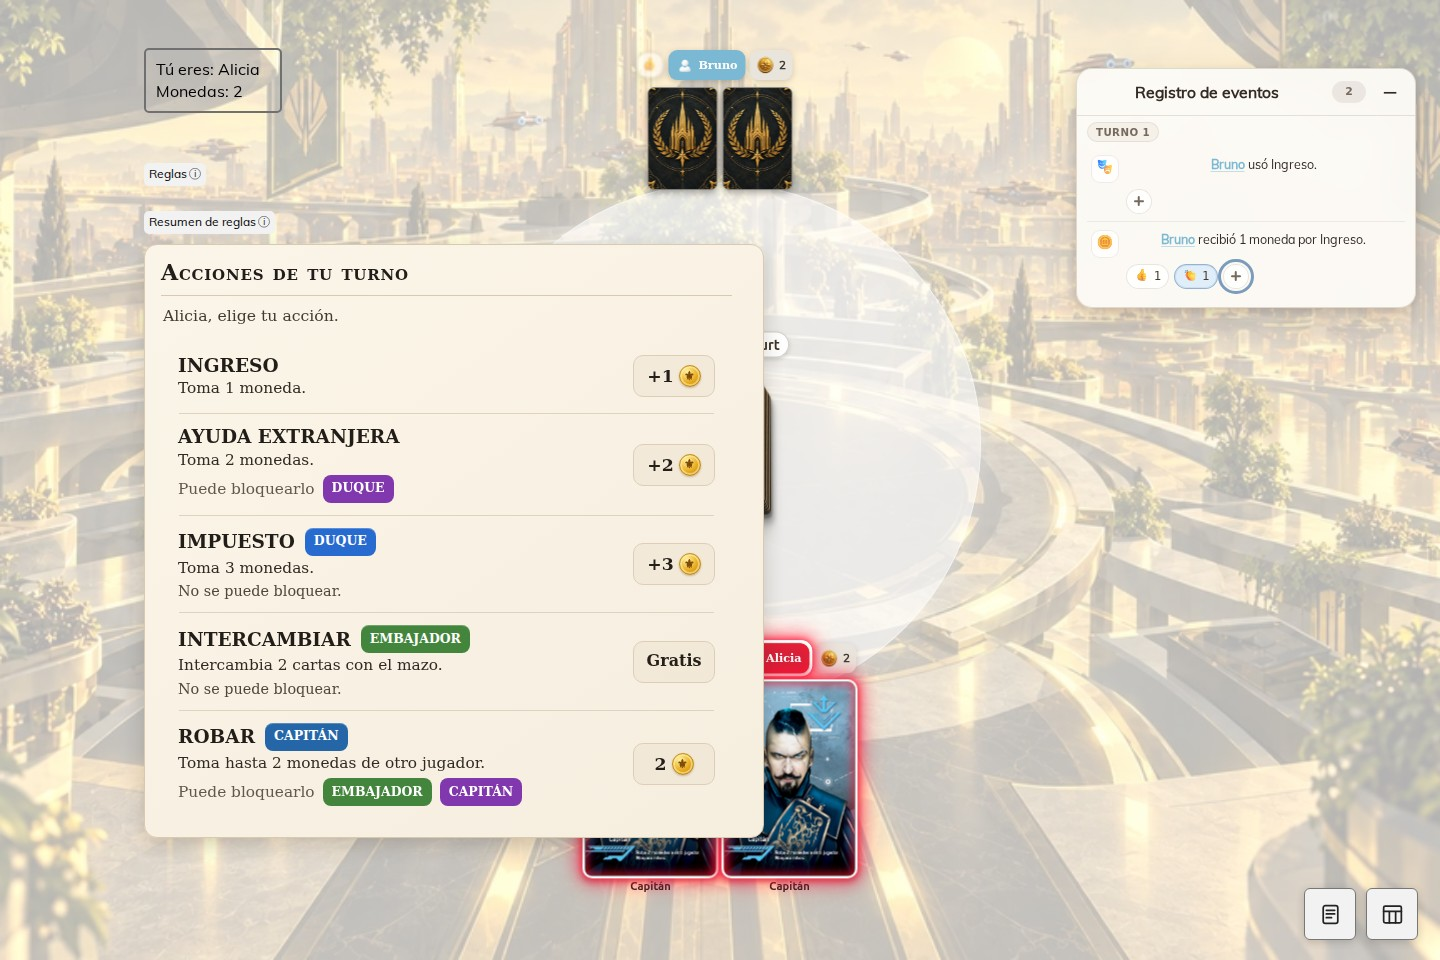
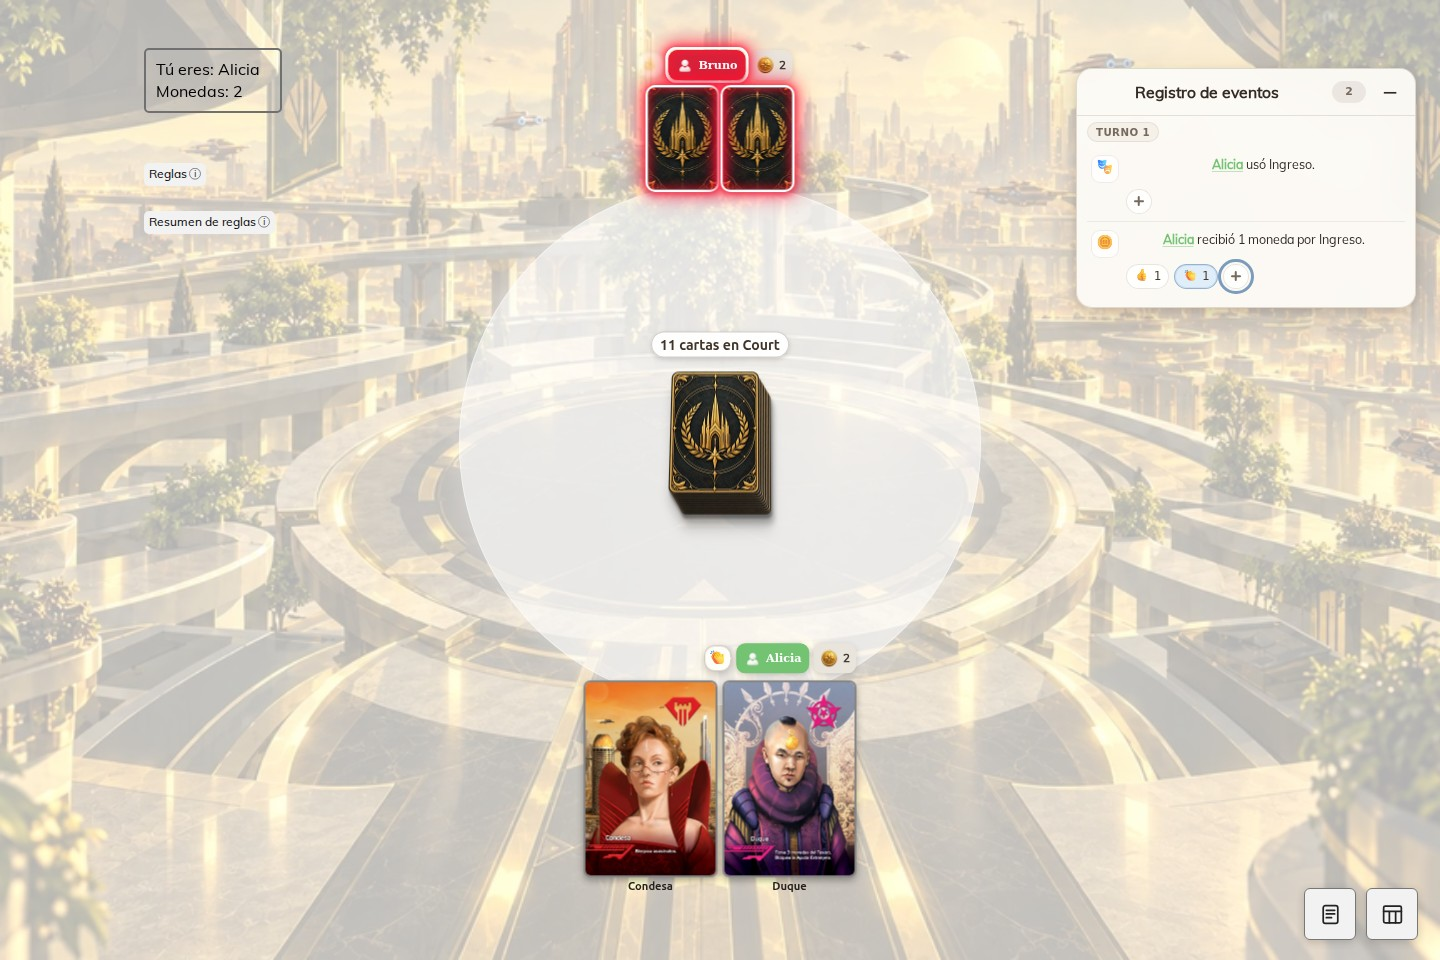
docs(event-reactions): issue 40 sync F4 onto PR 52 base

diff --git a/docs/plans/README_plans.md b/docs/plans/README_plans.md
@@ -33,7 +33,7 @@ GitHub Issues es la fuente de estado de las unidades: la [issue #1](https://gith
 - [#45 — conservar el resaltado de la respuesta elegida durante la espera](https://github.com/pronficilio/coup-online/issues/45): reclamada por `pronficilio`; implementación acotada a `ResponseImageButton.js`; F1 `CLOSED` tras walkthrough del propietario con tres participantes (mouse: opción elegida permanece `active` al apartar el puntero; probó `Pasar` y varios bloqueos; no se afirma cobertura dinámica de teclado/touch). Build cliente pasó con advertencias tras merge de `origin/master@db1d22c` (`918e070`). [PR #51](https://github.com/pronficilio/coup-online/pull/51) abierta; unidad `WAITING_ORCHESTRATOR`. Worktree: `.worktrees/issue-45-persist-submitted-response-highlight`. Plan/reporte: `docs/plans/submitted-response-highlight/`; handoff activo: `docs/plans/active/issue_45_submitted_response_highlight.md`; bitácora: `docs/plans/log/issue-45.jsonl`.
 - [#46 — disolver la partida si se desconecta un jugador activo durante una pausa](https://github.com/pronficilio/coup-online/issues/46): `CLOSED`, `COMPLETED`; F1–F3 `CLOSED (PASS)`, Verifier FINAL `PASS`; `FULL` / `HIGH` / `FINAL`. [PR #48](https://github.com/pronficilio/coup-online/pull/48) integrada a `master` en `2f45d787ded0da2218c6c784f4dd739abdaf4c1b`. Plan: `docs/plans/paused-disconnect/plan_paused_disconnect.md`; cierre: `docs/plans/completed/issue_46_paused_disconnect.md`; reportes F1–F3 y solicitud de Verifier: `docs/plans/paused-disconnect/`; bitácora: `docs/plans/log/issue-46.jsonl`.
 - [#49 — permitir Coup con 7–9 monedas y corregir el ciclo de selección](https://github.com/pronficilio/coup-online/issues/49): PR [#50](https://github.com/pronficilio/coup-online/pull/50) abierta a `master`; F1–F2 `CLOSED`, F3 `BLOCKED` con excepción de integración autorizada por el propietario; `FULL` / `HIGH` / `FINAL`. Plan: `docs/plans/coup-seven-coins/plan_coup_seven_coins.md`; handoff: `docs/plans/active/issue_49_coup_seven_coins.md`; reportes F1–F3: `docs/plans/coup-seven-coins/`; bitácora: `docs/plans/log/issue-49.jsonl`.
-- [#40 — rediseñar el registro de eventos y añadir reacciones efímeras](https://github.com/pronficilio/coup-online/issues/40): `OPEN`, `ACTIVE`; F1/F3 `CLOSED / PASS`; F2 reabierta y cerrada tras el segundo `FAIL` (foco AC9 y scroll AC10); F4 espera la tercera revisión `FINAL`. Build y E2E live con dos clientes pasaron: reemplazo/reset, concurrencia, retiro, expiración, foco restaurado y sin errores de página; fixture móvil confirmó continuidad del scroll. Capturas y matriz 2–6 están en `evidence_issue_40_F4/`. PR e integración aún pendientes de autorización. Branch/worktree `issue/40-event-log-reactions` / `.worktrees/issue-40-event-log-reactions`, sincronizado con `origin/master@ce0e079` (#51). Modo `FULL`, riesgo `HIGH`, verificación `FINAL`. Plan y reportes: `docs/plans/event-log-reactions/`; handoff: `docs/plans/active/issue_40_event_log_reactions.md`; bitácora: `docs/plans/log/issue-40.jsonl`.
+- [#40 — rediseñar el registro de eventos y añadir reacciones efímeras](https://github.com/pronficilio/coup-online/issues/40): `OPEN`, `ACTIVE`; F1/F3 `CLOSED / PASS`; F2 reabierta y cerrada tras el segundo `FAIL` (foco AC9 y scroll AC10); F4 espera la tercera revisión `FINAL`. Build y E2E live con dos clientes pasaron: reemplazo/reset, concurrencia, retiro, expiración, foco restaurado y sin errores de página; fixture móvil confirmó continuidad del scroll. Capturas y matriz 2–6 están en `evidence_issue_40_F4/`. PR e integración aún pendientes de autorización. Branch/worktree `issue/40-event-log-reactions` / `.worktrees/issue-40-event-log-reactions`, sincronizado con `origin/master@2ef09de` (#51–52). Modo `FULL`, riesgo `HIGH`, verificación `FINAL`. Plan y reportes: `docs/plans/event-log-reactions/`; handoff: `docs/plans/active/issue_40_event_log_reactions.md`; bitácora: `docs/plans/log/issue-40.jsonl`.
 
 - [#47 — optimizar y visualizar las opciones de intercambio del Embajador](https://github.com/pronficilio/coup-online/issues/47): `WAITING_ORCHESTRATOR`; F1 y F2 `PASS`; [PR #52](https://github.com/pronficilio/coup-online/pull/52) lista para revisión. Muestra cada carta física una vez, alterna selección B/A y confirma desde el caption; nombres accesibles distinguen copias repetidas. `LIGHT` / `MEDIUM` / `FINAL`. Asignada a `pronficilio`; branch/worktree `issue/47-ambassador-exchange-options` / `.worktrees/issue-47-ambassador-exchange-options`, destino `master`. Plan: `docs/plans/ambassador-exchange-options/plan_ambassador_exchange_options.md`; handoff: `docs/plans/active/issue_47_ambassador_exchange_options.md`; bitácora: `docs/plans/log/issue-47.jsonl`.
 

diff --git a/docs/plans/event-log-reactions/report_issue_40_F4.md b/docs/plans/event-log-reactions/report_issue_40_F4.md
@@ -3,7 +3,7 @@
 **Issue:** #40 — rediseñar el registro de eventos y añadir reacciones efímeras
 **Estado:** `ACTIVE`; dos revisiones independientes devolvieron `FAIL`; los defectos reproducibles se corrigieron y el E2E live pasó. Tercera revisión independiente `FINAL` pendiente. La publicación/integración de la PR de AC12 requiere autorización del propietario.
 **Branch/worktree:** `issue/40-event-log-reactions` / `.worktrees/issue-40-event-log-reactions`
-**Base:** `origin/master@ce0e0797dad13b4b2c4dd4b57f37458f24842a40`
+**Base:** `origin/master@2ef09de84465889521234951fed934a31dfe1b11`
 
 ## Primera revisión independiente
 
@@ -22,7 +22,7 @@ La revisión también encontró aprobados los controles estáticos de cronologí
 - `Coup.js` ahora pasa `reactionPresence` a `PlayerBoard` en el montaje de la partida.
 - En viewports móviles y dispositivos coarse, los controles del registro y las opciones tienen áreas de 44×44 px. Chromium midió las cuatro opciones del selector en 44×44 px.
 - Se quitó la escala de la animación de entrada de la bandeja: el primer recorrido midió 43.12 px porque el contenedor comenzaba en `scale(0.98)`. La bandeja conserva la entrada suave de opacidad y desplazamiento; el control táctil ya no se reduce al abrir.
-- El build de producción (`npm run build` en `coup-client/`) terminó correctamente después del rebase sobre `origin/master@ce0e079`. Permanecen avisos preexistentes de imports sin uso en `App.js`, precedencia `&&`/`||` en `Coup.js:451` de #46, `dvh` en `ReferencePanel.css:100,106` y la base Browserslist desactualizada.
+- El build de producción (`npm run build` en `coup-client/`) terminó correctamente después del rebase sobre `origin/master@2ef09de`. Permanecen avisos preexistentes de imports sin uso en `App.js`, precedencia `&&`/`||` en `Coup.js:452` de #46, `dvh` en `ReferencePanel.css:100,106` y la base Browserslist desactualizada.
 - El recorrido Chromium integrado pasó sin errores de página: una nueva reacción reemplaza la anterior y reinicia los 3.5 s; dos asientos coexisten; retirar una selección quita solo su globo; los globos vencen; el movimiento reducido produce duraciones `0.001s`; los asientos quedan dentro del viewport en layouts de 2, 3, 4, 5 y 6 participantes, escritorio 1440×960 y móvil 390×844.
 - El recorrido monta el `Coup` y `PlayerBoard` reales con un `PreviewSocket` local que simula mensajes de servidor. Prueba la integración del cliente, pero no es una partida live multi-cliente. El estado autoritativo, concurrencia y privacidad se revisan con el contrato y las verificaciones de F1.
 
@@ -49,6 +49,7 @@ El segundo Verifier independiente (`Curie`) también devolvió `FAIL`:
 - En móvil, el panel conserva `scrollTop` al cerrarse y abrirse. Los eventos nuevos recibidos mientras estaba plegado solo fuerzan seguimiento si el usuario estaba siguiendo el final.
 - El fixture móvil con 30 eventos confirmó: bottom gap inicial `0`; scroll `172` antes de cerrar y `172` al reabrir; un evento añadido mientras el panel estaba plegado también conservó `172`. La selección por teclado restauró el foco al botón del evento correcto. Sin errores de página.
 - Recorrido live con Chromium contra el cliente y servidor reales, dos sesiones conectadas como Alicia y Bruno: se generó un evento de partida real; Alicia cambió `Me gusta` por `Bravo` tras 2.6 s y la burbuja seguía visible 1.3 s después (reset de 3.5 s); Bruno reaccionó al mismo evento y ambas burbujas coexistieron; retirar la reacción de Alicia dejó solo la de Bruno; después expiraron ambas. Se comprobó foco restaurado y no hubo errores de página.
+- Ese mismo E2E live se repitió tras rebasar el branch sobre `origin/master@2ef09de` (PR #52); pasó nuevamente sin errores de página y regeneró las capturas de reemplazo/concurrencia, retiro y expiración enlazadas abajo.
 - `npm run build` pasó tras las correcciones. Se mantienen los avisos preexistentes descritos arriba.
 
 Capturas del E2E live:

diff --git a/docs/plans/event-log-reactions/plan_event_log_reactions.md b/docs/plans/event-log-reactions/plan_event_log_reactions.md
@@ -7,7 +7,7 @@
 **Bitácora:** `docs/plans/log/issue-40.jsonl`
 **Modo / riesgo / verificación:** `FULL` / `HIGH` / `FINAL`.
 **Branch / worktree:** `issue/40-event-log-reactions` / `.worktrees/issue-40-event-log-reactions`.
-**Base / destino:** `origin/master` (`ce0e0797dad13b4b2c4dd4b57f37458f24842a40`) / `master` de `pronficilio/coup-online`.
+**Base / destino:** `origin/master` (`2ef09de84465889521234951fed934a31dfe1b11`) / `master` de `pronficilio/coup-online`.
 **Integración:** una PR para el issue completo; aún no existe.
 
 ## Solicitud y resultado esperado
@@ -53,7 +53,7 @@ El issue #40 es la fuente canónica de los doce criterios de aceptación, catál
 - **Commit:** `feat(event-reactions): issue 40 F1 CLOSED advance_f2` (`COMMIT_REQUIRED`).
 - **Verifier:** no en esta fase; resultado independiente `FINAL` obligatorio antes de integrar.
 - **Revisión del Orquestador:** F1 aprobada. Las cuatro fallas generales son expectativas existentes de pausa/reanudación no modificadas en F1; están registradas para seguimiento de la suite y no bloquean la superficie independiente de F2.
-- **Estado de entrega:** F4 `ACTIVE`; F1–F3 `CLOSED / PASS` y F2 reabierta/cerrada tras corregir foco y continuidad de scroll. #24/PR #41, #46/PR #48, #49/PR #50 y #45/PR #51 están integradas en `origin/master@ce0e079`. Preservar el rail, cierre de partida, CSS separado de EventLog y cableado de presencia.
+- **Estado de entrega:** F4 `ACTIVE`; F1–F3 `CLOSED / PASS` y F2 reabierta/cerrada tras corregir foco y continuidad de scroll. #24/PR #41, #46/PR #48, #49/PR #50, #45/PR #51 y #47/PR #52 están integradas en `origin/master@2ef09de`. Preservar el rail, cierre de partida, CSS separado de EventLog y cableado de presencia.
 
 ### F2 — Registro y controles de reacción
 

diff --git a/docs/plans/active/issue_40_event_log_reactions.md b/docs/plans/active/issue_40_event_log_reactions.md
@@ -24,7 +24,7 @@ F1 ya cerró el contrato tipado, los resultados públicos y el estado autoritati
 
 ## Reclamo, rama y aislamiento
 
-Issue #40 permanece `OPEN` y está asignada a `pronficilio`. El claim inicial quedó publicado y releído en [el issue](https://github.com/pronficilio/coup-online/issues/40#issuecomment-5865134787). El branch único `issue/40-event-log-reactions` está rebasado sobre `origin/master@ce0e079` tras la integración de #51, preservando #24/PR #41, #46/PR #48, #49/PR #50 y #45/PR #51. No se creó otro worktree ni se integró la rama de #24 como dependencia.
+Issue #40 permanece `OPEN` y está asignada a `pronficilio`. El claim inicial quedó publicado y releído en [el issue](https://github.com/pronficilio/coup-online/issues/40#issuecomment-5865134787). El branch único `issue/40-event-log-reactions` está rebasado sobre `origin/master@2ef09de` tras la integración de #51 y #52, preservando #24/PR #41, #46/PR #48, #49/PR #50, #45/PR #51 y #47/PR #52. No se creó otro worktree ni se integró la rama de #24 como dependencia.
 
 F1 se ejecutó directamente en el worktree por falta de delegación disponible en ese contexto. F2 y F3 continúan bajo dirección del Orquestador tras cerrar el hilo del Alquimista que no inició trabajo después de su reanudación.
 
